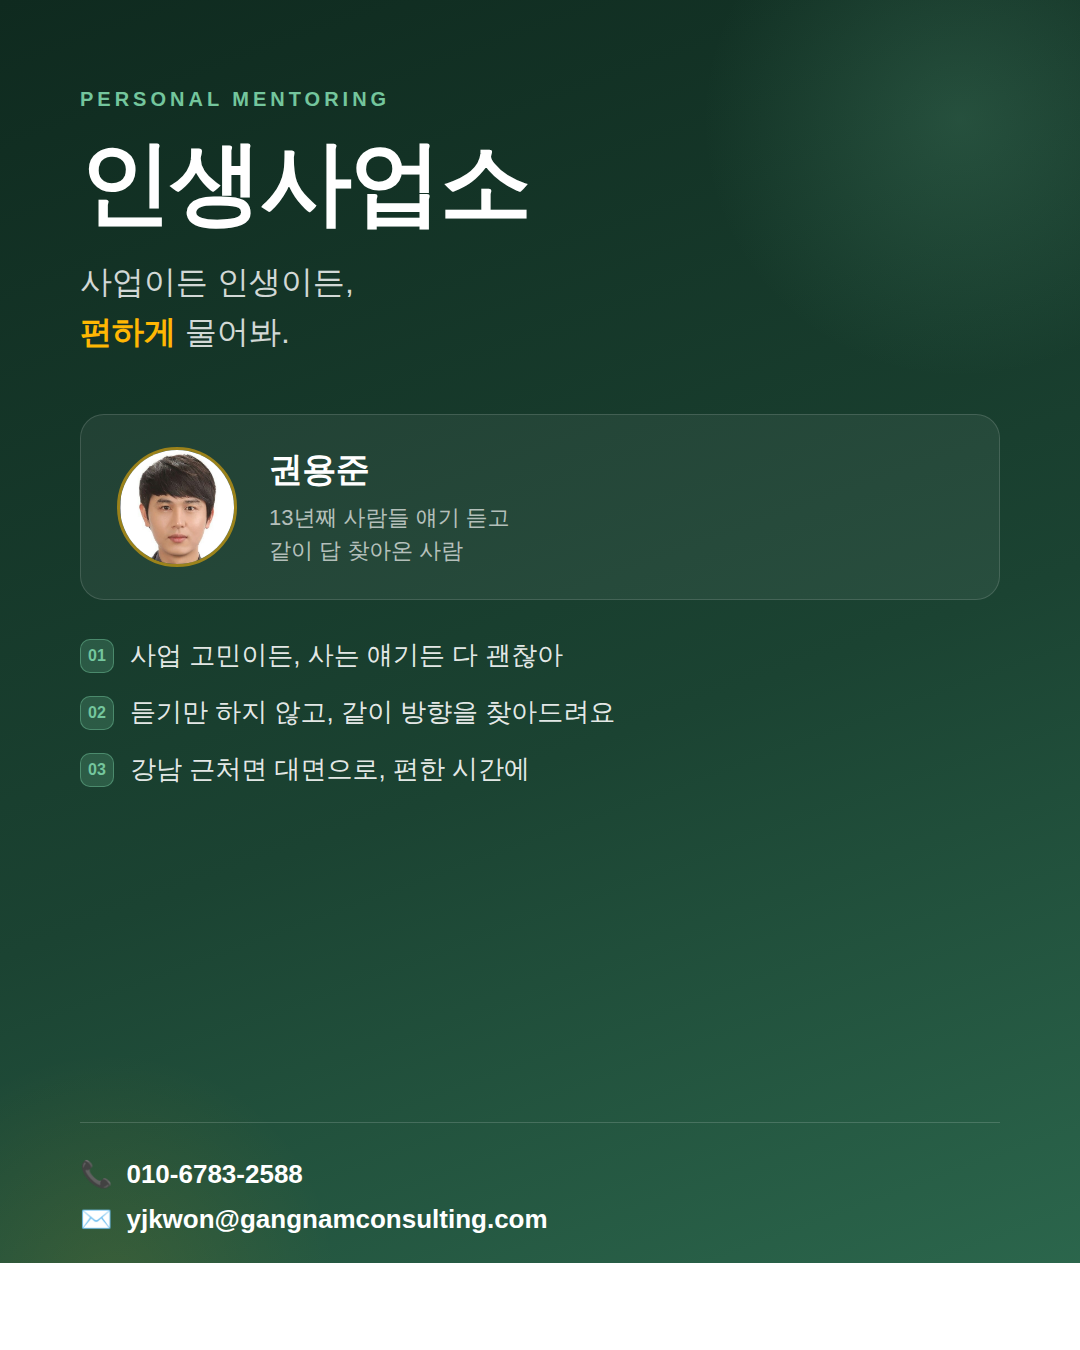
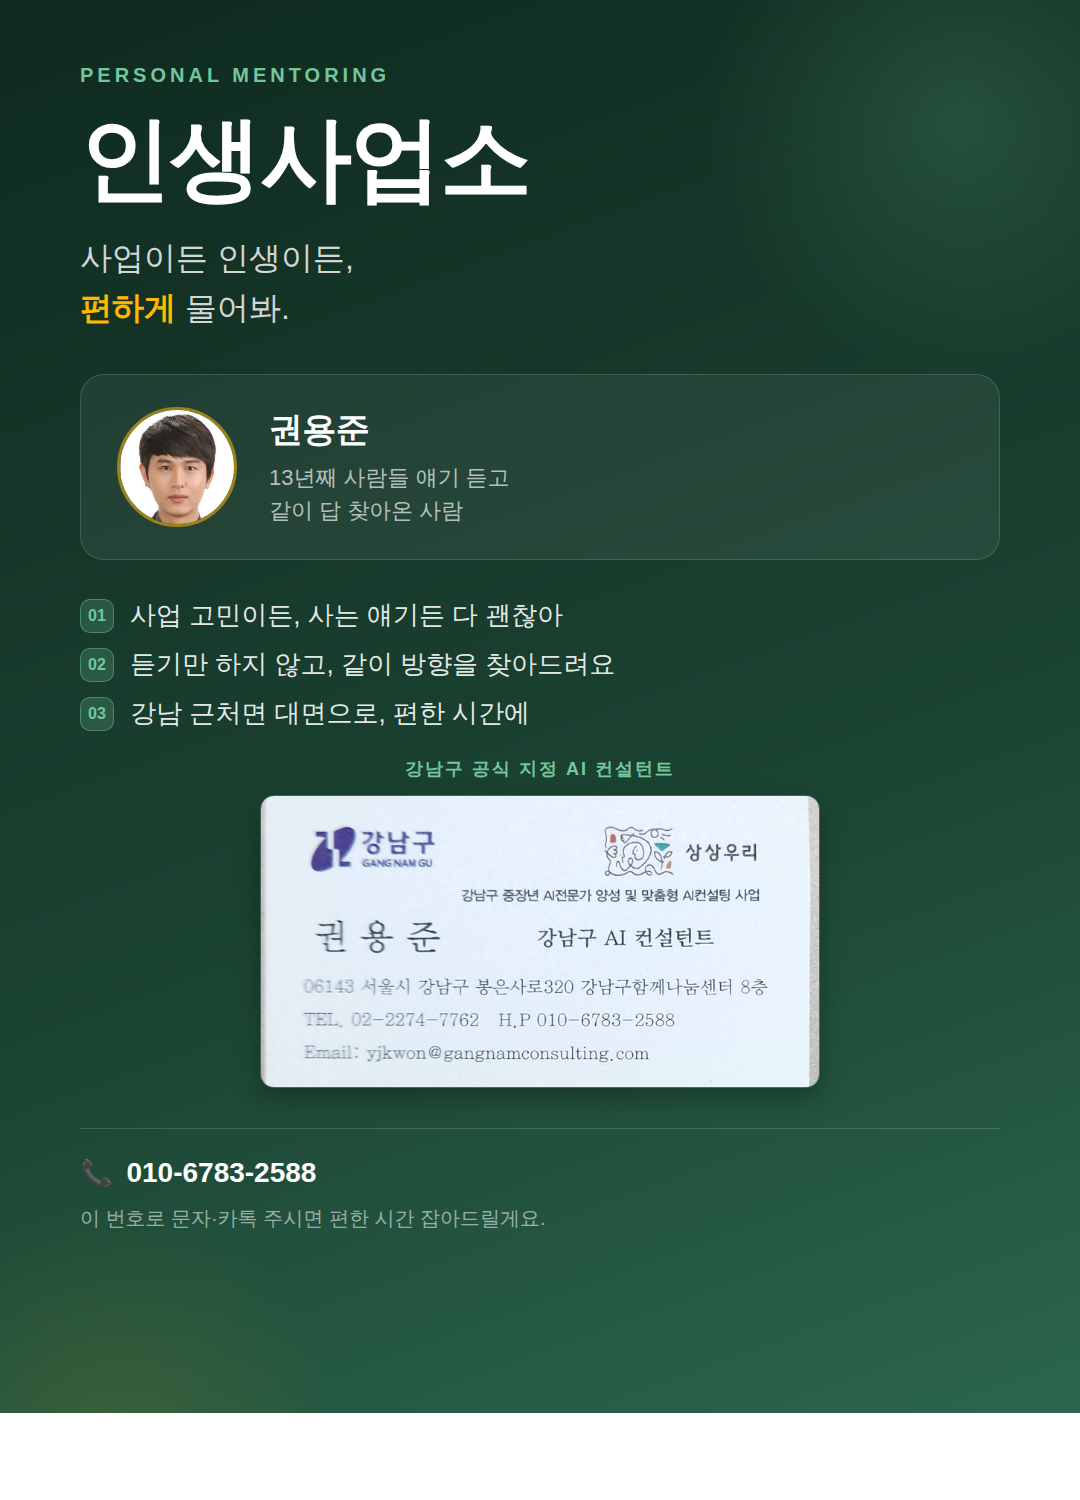
Embed official business card as trust badge on 인생사업소 card
Added the actual 강남구+상상우리 business card photo as a credibility
badge (institutional backing signal). Grew the canvas to 1080x1500
and trimmed spacing so the full card and contact footer fit without
clipping, and dropped the now-redundant email line since it's already
legible on the embedded business card.

Claude-Session: https://claude.ai/code/session_01MPanYn6wbRxXi8vgxmF799

Changed region(s): [[0.0, 0.0311, 1.0, 0.9644]]

diff --git a/insaengsaeopso/card.html b/insaengsaeopso/card.html
@@ -6,7 +6,7 @@
 <link href="https://fonts.googleapis.com/css2?family=Noto+Sans+KR:wght@400;500;700;900&display=swap" rel="stylesheet">
 <style>
   *{margin:0;padding:0;box-sizing:border-box}
-  html,body{width:1080px;height:1350px}
+  html,body{width:1080px;height:1500px}
   body{
     font-family:'Noto Sans KR',sans-serif;
     background:linear-gradient(160deg,#0F2A1F 0%,#1B4332 55%,#2D6A4F 100%);
@@ -22,7 +22,7 @@
     width:460px;height:460px;border-radius:50%;
     background:radial-gradient(circle,rgba(255,183,3,.10) 0%,transparent 70%);
   }
-  .wrap{position:relative;z-index:2;padding:88px 80px 64px;height:100%;display:flex;flex-direction:column}
+  .wrap{position:relative;z-index:2;padding:64px 80px 32px;height:100%;display:flex;flex-direction:column}
 
   .lbl{
     font-size:20px;font-weight:700;letter-spacing:4px;
@@ -34,7 +34,7 @@
   }
   .tagline{
     font-size:32px;font-weight:500;color:rgba(255,255,255,.82);
-    line-height:1.55;margin-bottom:56px;
+    line-height:1.55;margin-bottom:40px;
   }
   .tagline b{color:#FFB703;font-weight:700}
 
@@ -52,7 +52,7 @@
   .p-name{font-size:34px;font-weight:900;letter-spacing:-.5px}
   .p-bio{font-size:22px;color:rgba(255,255,255,.68);margin-top:8px;line-height:1.5}
 
-  .points{display:flex;flex-direction:column;gap:18px;margin-bottom:auto}
+  .points{display:flex;flex-direction:column;gap:10px}
   .point{display:flex;align-items:flex-start;gap:16px;font-size:26px;color:rgba(255,255,255,.9);line-height:1.5}
   .point .dot{
     width:34px;height:34px;border-radius:10px;background:rgba(116,198,157,.22);
@@ -61,13 +61,23 @@
     flex-shrink:0;margin-top:3px;
   }
 
-  .contact{
-    margin-top:48px;border-top:1px solid rgba(255,255,255,.16);
-    padding-top:36px;display:flex;flex-direction:column;gap:14px;
+  .credential{margin-top:24px;text-align:center}
+  .cred-lbl{font-size:18px;font-weight:700;letter-spacing:2px;color:#74C69D;margin-bottom:14px}
+  .cred-card{
+    width:560px;max-width:100%;margin:0 auto;border-radius:14px;overflow:hidden;
+    border:1px solid rgba(255,255,255,.18);
+    box-shadow:0 10px 24px rgba(0,0,0,.28);
+    display:block;
   }
-  .c-row{display:flex;align-items:center;gap:14px;font-size:26px;font-weight:700}
+  .cred-card img{width:100%;display:block}
+
+  .contact{
+    margin-top:40px;border-top:1px solid rgba(255,255,255,.16);
+    padding-top:28px;display:flex;flex-direction:column;gap:10px;
+  }
+  .c-row{display:flex;align-items:center;gap:14px;font-size:28px;font-weight:700}
   .c-icon{font-size:26px}
-  .c-note{font-size:20px;color:rgba(255,255,255,.55);margin-top:10px;font-weight:400}
+  .c-note{font-size:20px;color:rgba(255,255,255,.55);margin-top:6px;font-weight:400}
 </style>
 </head>
 <body>
@@ -90,9 +100,13 @@
       <div class="point"><span class="dot">03</span>강남 근처면 대면으로, 편한 시간에</div>
     </div>
 
+    <div class="credential">
+      <div class="cred-lbl">강남구 공식 지정 AI 컨설턴트</div>
+      <div class="cred-card"><img src="business-card.jpg" alt="강남구 AI 컨설턴트 권용준 명함"></div>
+    </div>
+
     <div class="contact">
       <div class="c-row"><span class="c-icon">📞</span> 010-6783-2588</div>
-      <div class="c-row"><span class="c-icon">✉</span> yjkwon@gangnamconsulting.com</div>
       <div class="c-note">이 번호로 문자·카톡 주시면 편한 시간 잡아드릴게요.</div>
     </div>
   </div>
